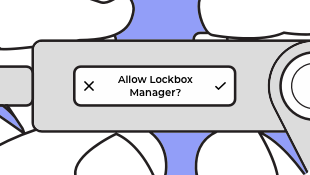
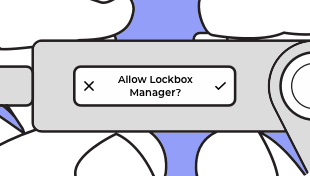
style(Lockbox): Onboarding images, fix flickering

diff --git a/packages/blockchain-wallet-v4-frontend/src/modals/LockboxSetup/NameDeviceStep/template.js b/packages/blockchain-wallet-v4-frontend/src/modals/LockboxSetup/NameDeviceStep/template.js
@@ -17,9 +17,15 @@ const Title = styled.div`
 const Content = styled.div`
   margin-bottom: 10px;
 `
-
-const StyledImage = styled(Image)`
+const ImageContainer = styled.div`
   margin: 20px 0;
+  position: relative;
+  padding-bottom: 57%;
+  img {
+    position: absolute;
+    left: 0;
+    top: 0;
+  }
 `
 
 const NameDeviceStep = props => {
@@ -53,14 +59,16 @@ const NameDeviceStep = props => {
             maxLength={30}
           />
         </FormItem>
-        <StyledImage
-          name='lockbox-onboard-name'
-          width='100%'
-          srcset={{
-            'lockbox-onboard-name2': '2x',
-            'lockbox-onboard-name3': '3x'
-          }}
-        />
+        <ImageContainer>
+          <Image
+            name='lockbox-onboard-name'
+            width='100%'
+            srcset={{
+              'lockbox-onboard-name2': '2x',
+              'lockbox-onboard-name3': '3x'
+            }}
+          />
+        </ImageContainer>
         <FormGroup>
           <Button type='submit' nature='primary' disabled={invalid}>
             <FormattedMessage

diff --git a/packages/blockchain-wallet-v4-frontend/src/modals/LockboxSetup/OpenBtcAppStep/template.js b/packages/blockchain-wallet-v4-frontend/src/modals/LockboxSetup/OpenBtcAppStep/template.js
@@ -21,6 +21,15 @@ const Content = styled(TextGroup)`
     margin-bottom: 0;
   }
 `
+const ImageContainer = styled.div`
+  position: relative;
+  padding-bottom: 57%;
+  img {
+    position: absolute;
+    left: 0;
+    top: 0;
+  }
+`
 const ButtonContainer = styled.div`
   margin-top: 20px;
 `
@@ -81,14 +90,16 @@ const OpenBtcAppStep = props => {
           </Link>
         </InstallTexts>
       </Content>
-      <Image
-        name='lockbox-onboard-bitcoin'
-        width='100%'
-        srcset={{
-          'lockbox-onboard-bitcoin2': '2x',
-          'lockbox-onboard-bitcoin3': '3x'
-        }}
-      />
+      <ImageContainer>
+        <Image
+          name='lockbox-onboard-bitcoin'
+          width='100%'
+          srcset={{
+            'lockbox-onboard-bitcoin2': '2x',
+            'lockbox-onboard-bitcoin3': '3x'
+          }}
+        />
+      </ImageContainer>
       <ButtonContainer>
         <Button
           fullwidth

diff --git a/packages/blockchain-wallet-v4-frontend/src/modals/LockboxSetup/AuthenticityStep/template.js b/packages/blockchain-wallet-v4-frontend/src/modals/LockboxSetup/AuthenticityStep/template.js
@@ -18,6 +18,15 @@ const Content = styled.div`
   text-align: center;
   margin-bottom: 15px;
 `
+const ImageContainer = styled.div`
+  position: relative;
+  padding-bottom: 57%;
+  img {
+    position: absolute;
+    left: 0;
+    top: 0;
+  }
+`
 const ButtonContainer = styled.div`
   margin-top: 20px;
 `
@@ -46,14 +55,16 @@ const AuthenticityStep = props => {
           />
         </Text>
       </Content>
-      <Image
-        name='lockbox-onboard-verify'
-        width='100%'
-        srcset={{
-          'lockbox-onboard-verify2': '2x',
-          'lockbox-onboard-verify3': '3x'
-        }}
-      />
+      <ImageContainer>
+        <Image
+          name='lockbox-onboard-verify'
+          width='100%'
+          srcset={{
+            'lockbox-onboard-verify2': '2x',
+            'lockbox-onboard-verify3': '3x'
+          }}
+        />
+      </ImageContainer>
       <ButtonContainer>
         <Button
           fullwidth

diff --git a/packages/blockchain-wallet-v4-frontend/src/modals/LockboxSetup/ConnectDeviceStep/template.js b/packages/blockchain-wallet-v4-frontend/src/modals/LockboxSetup/ConnectDeviceStep/template.js
@@ -15,6 +15,16 @@ const StepText = styled(Text)`
   margin-bottom: 20px;
 `
 
+const ImageContainer = styled.div`
+  position: relative;
+  padding-bottom: 57%;
+  img {
+    position: absolute;
+    left: 0;
+    top: 0;
+  }
+`
+
 const ButtonContainer = styled.div`
   margin-top: 20px;
 `
@@ -62,14 +72,16 @@ const ConnectDeviceStep = props => {
           />
         </StepText>
       </TextGroup>
-      <Image
-        name='lockbox-onboard-link'
-        width='100%'
-        srcset={{
-          'lockbox-onboard-link2': '2x',
-          'lockbox-onboard-link3': '3x'
-        }}
-      />
+      <ImageContainer>
+        <Image
+          name='lockbox-onboard-link'
+          width='100%'
+          srcset={{
+            'lockbox-onboard-link2': '2x',
+            'lockbox-onboard-link3': '3x'
+          }}
+        />
+      </ImageContainer>
       <ButtonContainer>
         <Button
           fullwidth
